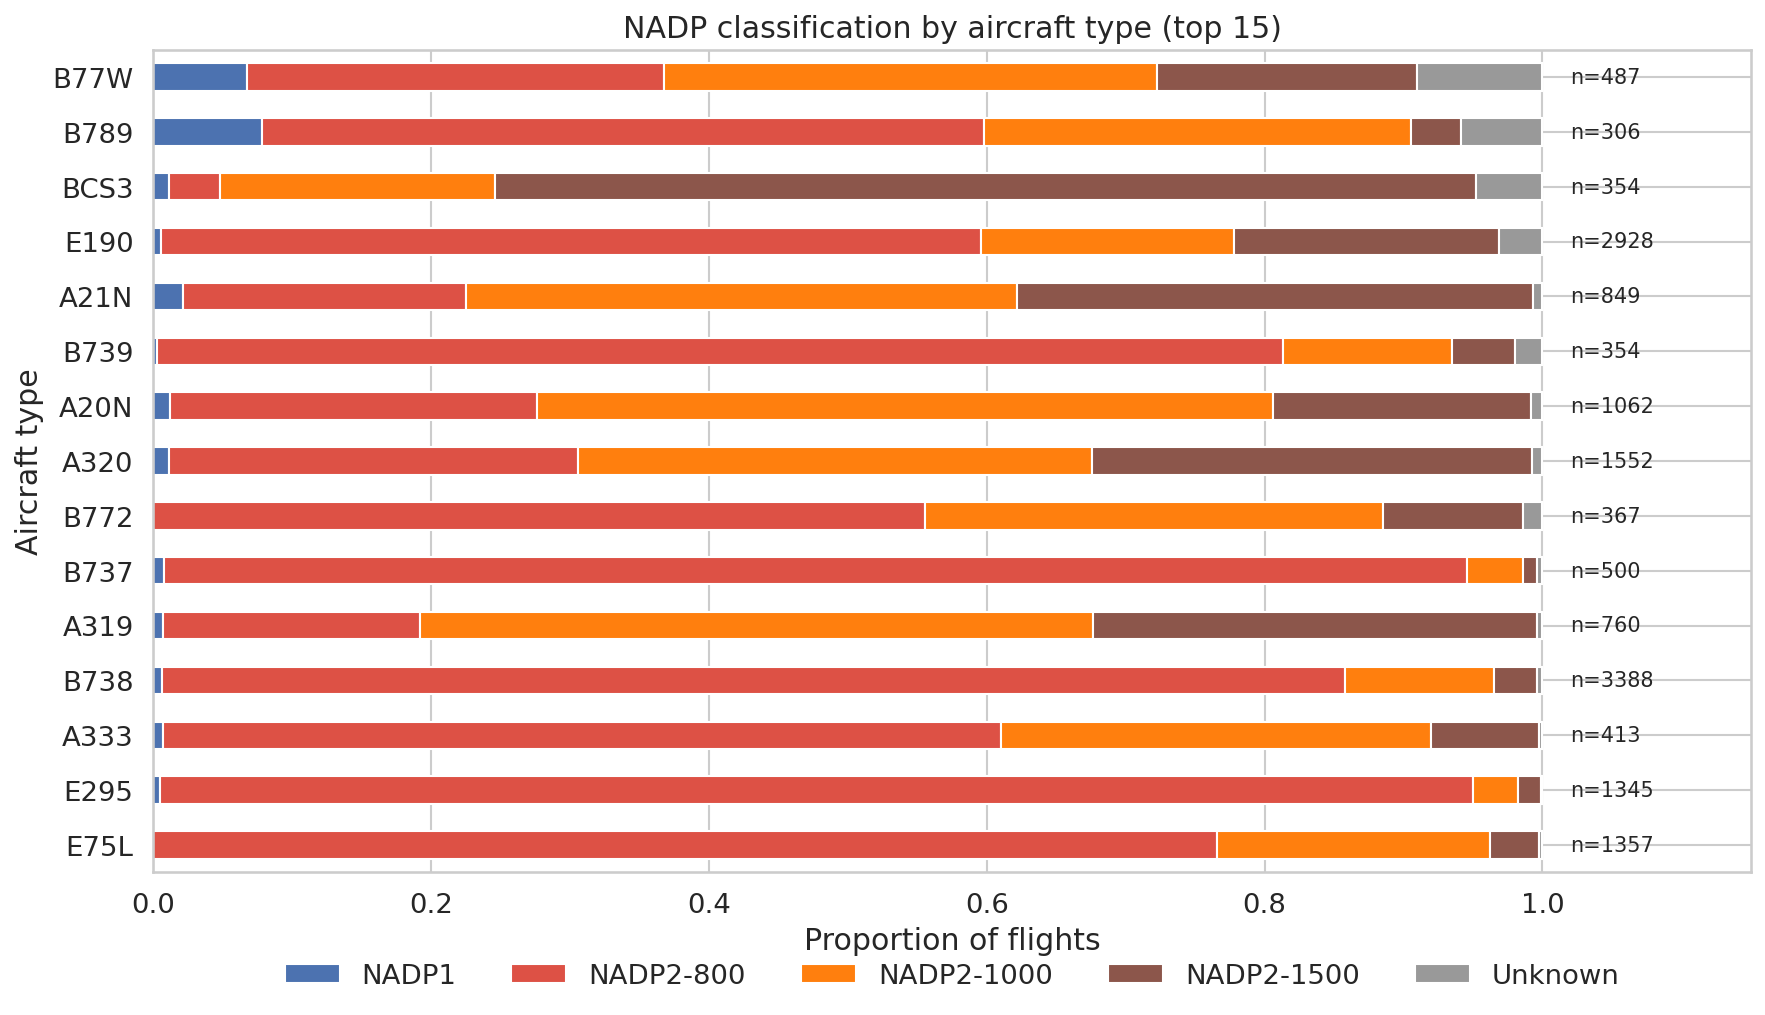
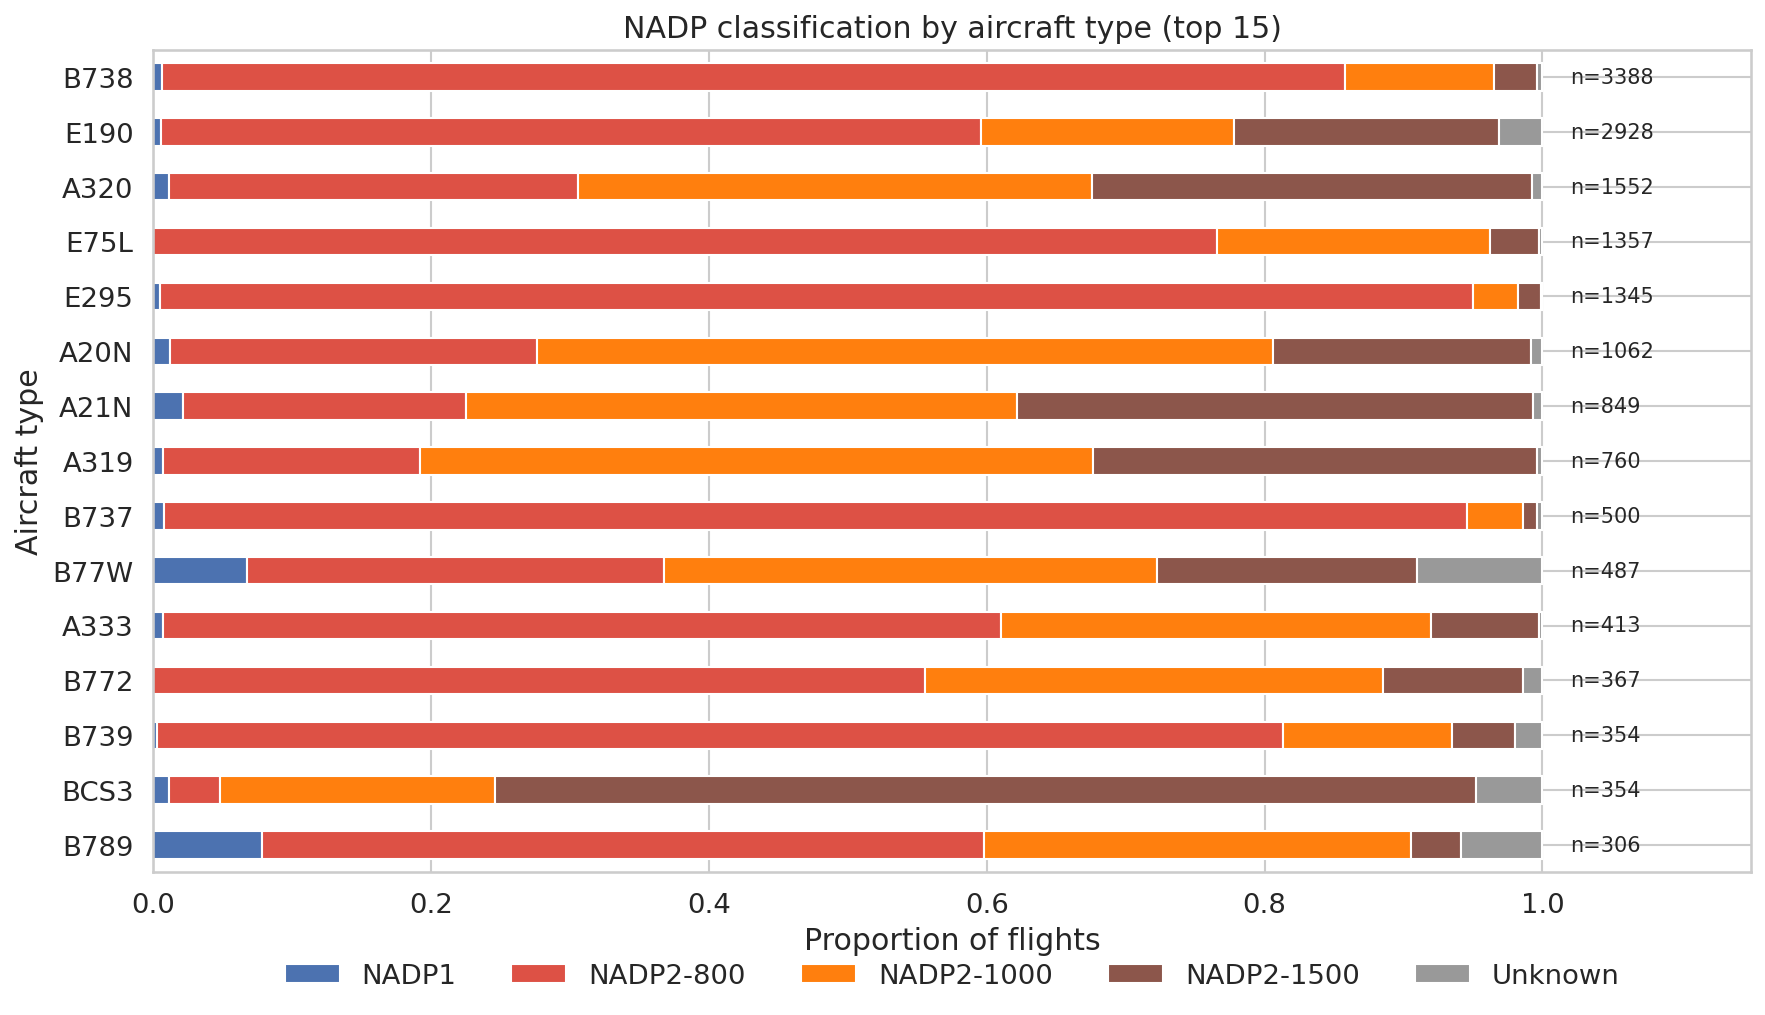
add airline breakdown, callsign/start to CSV, rename icao_actype to typecode
- Extract callsign, airline (ICAO 3-letter), and start timestamp in feature extraction
- Rename icao_actype to typecode across all scripts and CSV output
- Add airline breakdown plots (>2 flights/day) to both 2-profile and 4-profile classifiers
- Sort aircraft type and airline plots by flight count
- Update README with new CSV columns and airline figures

diff --git a/3b_classify_nadp_subtypes.py b/3b_classify_nadp_subtypes.py
@@ -163,7 +163,7 @@ print(f"  Unknown mean:    {unknown['separation_ratio'].mean():.3f}")
 
 # Export results
 result_cols = [
-    "flight_id", "icao_actype", "v2", "nadp_type", "nadp_category",
+    "flight_id", "typecode", "callsign", "airline", "start", "v2", "nadp_type", "nadp_category",
     "delta_score", "delta_ias_rms",
     "delta_ias_800", "delta_ias_1500", "delta_ias_3000",
     "mean_rocd_800_1500", "mean_rocd_1500_3000",
@@ -419,20 +419,17 @@ print(f"Saved {PLOT_DIR}/05_feature_space.png")
 
 
 # Plot 6: NADP type breakdown by aircraft type (top 15 most common)
-top_types = df["icao_actype"].value_counts().head(15).index
-df_top = df[df["icao_actype"].isin(top_types)].copy()
+top_types = df["typecode"].value_counts().head(15).index
+df_top = df[df["typecode"].isin(top_types)].copy()
 
 _type_cols = ["nadp1", "nadp2-800", "nadp2-1000", "nadp2-1500", "unknown"]
 _type_display = ["NADP1", "NADP2-800", "NADP2-1000", "NADP2-1500", "Unknown"]
 _type_colors = [PALETTE["nadp1"], SUBTYPE_PALETTE["nadp2-800"], SUBTYPE_PALETTE["nadp2-1000"],
                 SUBTYPE_PALETTE["nadp2-1500"], PALETTE["unknown"]]
 
-ct = pd.crosstab(df_top["icao_actype"], df_top["nadp_type"], normalize="index")
+ct = pd.crosstab(df_top["typecode"], df_top["nadp_type"], normalize="index")
 ct = ct.reindex(columns=_type_cols, fill_value=0)
-# Sort by total NADP2 proportion
-ct["_nadp2_total"] = ct["nadp2-800"] + ct["nadp2-1000"] + ct["nadp2-1500"]
-ct = ct.loc[ct["_nadp2_total"].sort_values(ascending=False).index]
-ct = ct.drop(columns="_nadp2_total")
+ct = ct.loc[reversed(top_types)]
 
 fig, ax = plt.subplots(figsize=(12, 7))
 ct.plot.barh(stacked=True, color=_type_colors, ax=ax)
@@ -444,7 +441,7 @@ ax.legend(
     loc="upper center", bbox_to_anchor=(0.5, -0.08),
     ncol=5, frameon=False,
 )
-counts_by_type = df_top["icao_actype"].value_counts()
+counts_by_type = df_top["typecode"].value_counts()
 for i, actype in enumerate(ct.index):
     ax.text(1.02, i, f"n={counts_by_type[actype]}", va="center", fontsize=10)
 ax.set_xlim(0, 1.15)
@@ -598,3 +595,32 @@ plt.suptitle("NADP2 sub-type analysis (acceleration altitude variants)")
 plt.tight_layout()
 plt.savefig(f"{PLOT_DIR}/08_nadp2_subtypes.png", dpi=150)
 print(f"Saved {PLOT_DIR}/08_nadp2_subtypes.png")
+
+
+# Plot 9: NADP type breakdown by airline (top 15 most common)
+airline_counts = df["airline"].value_counts()
+n_days = 31  # March 2025
+top_airlines = airline_counts[airline_counts > 2 * n_days].index
+df_top_al = df[df["airline"].isin(top_airlines)].copy()
+
+ct_al = pd.crosstab(df_top_al["airline"], df_top_al["nadp_type"], normalize="index")
+ct_al = ct_al.reindex(columns=_type_cols, fill_value=0)
+ct_al = ct_al.loc[reversed(top_airlines)]
+
+fig, ax = plt.subplots(figsize=(12, 13))
+ct_al.plot.barh(stacked=True, color=_type_colors, ax=ax)
+ax.set_xlabel("Proportion of flights")
+ax.set_ylabel("Airline (ICAO code)")
+ax.set_title(f"NADP classification by airline ({len(top_airlines)} airlines, >2 flights/day)")
+ax.legend(
+    _type_display,
+    loc="upper center", bbox_to_anchor=(0.5, -0.08),
+    ncol=5, frameon=False,
+)
+counts_by_airline = df_top_al["airline"].value_counts()
+for i, airline in enumerate(ct_al.index):
+    ax.text(1.02, i, f"n={counts_by_airline[airline]}", va="center", fontsize=10)
+ax.set_xlim(0, 1.15)
+plt.tight_layout()
+plt.savefig(f"{PLOT_DIR}/09_airline_breakdown.png", dpi=150, bbox_inches="tight")
+print(f"Saved {PLOT_DIR}/09_airline_breakdown.png")

diff --git a/3_classify_nadp.py b/3_classify_nadp.py
@@ -126,7 +126,7 @@ print(f"  Unknown mean:    {unknown['separation_ratio'].mean():.3f}")
 
 # Export results
 result_cols = [
-    "flight_id", "icao_actype", "v2", "nadp_type",
+    "flight_id", "typecode", "callsign", "airline", "start", "v2", "nadp_type",
     "delta_score", "delta_ias_rms",
     "delta_ias_800", "delta_ias_1500", "delta_ias_3000",
     "mean_rocd_800_1500", "mean_rocd_1500_3000",
@@ -356,12 +356,12 @@ print(f"Saved {PLOT_DIR}/05_feature_space.png")
 
 
 # Plot 6: NADP type breakdown by aircraft type (top 15 most common)
-top_types = df["icao_actype"].value_counts().head(15).index
-df_top = df[df["icao_actype"].isin(top_types)].copy()
+top_types = df["typecode"].value_counts().head(15).index
+df_top = df[df["typecode"].isin(top_types)].copy()
 
-ct = pd.crosstab(df_top["icao_actype"], df_top["nadp_type"], normalize="index")
+ct = pd.crosstab(df_top["typecode"], df_top["nadp_type"], normalize="index")
 ct = ct.reindex(columns=["nadp1", "nadp2", "unknown"], fill_value=0)
-ct = ct.loc[ct["nadp2"].sort_values(ascending=False).index]
+ct = ct.loc[reversed(top_types)]
 
 fig, ax = plt.subplots(figsize=(12, 7))
 ct.plot.barh(stacked=True, color=[PALETTE["nadp1"], PALETTE["nadp2"], PALETTE["unknown"]], ax=ax)
@@ -373,7 +373,7 @@ ax.legend(
     loc="upper center", bbox_to_anchor=(0.5, -0.08),
     ncol=3, frameon=False,
 )
-counts_by_type = df_top["icao_actype"].value_counts()
+counts_by_type = df_top["typecode"].value_counts()
 for i, actype in enumerate(ct.index):
     ax.text(1.02, i, f"n={counts_by_type[actype]}", va="center", fontsize=10)
 ax.set_xlim(0, 1.15)
@@ -420,3 +420,32 @@ plt.suptitle("Mean profiles with IQR by NADP type")
 plt.tight_layout()
 plt.savefig(f"{PLOT_DIR}/07_mean_profiles.png", dpi=150)
 print(f"Saved {PLOT_DIR}/07_mean_profiles.png")
+
+
+# Plot 9: NADP type breakdown by airline (airlines with >2 flights/day avg)
+airline_counts = df["airline"].value_counts()
+n_days = 31  # March 2025
+top_airlines = airline_counts[airline_counts > 2 * n_days].index
+df_top_al = df[df["airline"].isin(top_airlines)].copy()
+
+ct_al = pd.crosstab(df_top_al["airline"], df_top_al["nadp_type"], normalize="index")
+ct_al = ct_al.reindex(columns=["nadp1", "nadp2", "unknown"], fill_value=0)
+ct_al = ct_al.loc[reversed(top_airlines)]
+
+fig, ax = plt.subplots(figsize=(12, 13))
+ct_al.plot.barh(stacked=True, color=[PALETTE["nadp1"], PALETTE["nadp2"], PALETTE["unknown"]], ax=ax)
+ax.set_xlabel("Proportion of flights")
+ax.set_ylabel("Airline (ICAO code)")
+ax.set_title(f"NADP classification by airline ({len(top_airlines)} airlines, >2 flights/day)")
+ax.legend(
+    ["NADP1", "NADP2", "Unknown"],
+    loc="upper center", bbox_to_anchor=(0.5, -0.08),
+    ncol=3, frameon=False,
+)
+counts_by_airline = df_top_al["airline"].value_counts()
+for i, airline in enumerate(ct_al.index):
+    ax.text(1.02, i, f"n={counts_by_airline[airline]}", va="center", fontsize=10)
+ax.set_xlim(0, 1.15)
+plt.tight_layout()
+plt.savefig(f"{PLOT_DIR}/09_airline_breakdown.png", dpi=150, bbox_inches="tight")
+print(f"Saved {PLOT_DIR}/09_airline_breakdown.png")

diff --git a/2_extract_features.py b/2_extract_features.py
@@ -104,10 +104,16 @@ def extract_flight_features(flight_id, group):
     delta_ias_curve = [v - v2 if not pd.isna(v) else np.nan for v in ias_curve]
 
     actype = group["ICAO_ACTYPE"].iloc[0]
+    callsign = str(group["CALLSIGN"].iloc[0]).strip()
+    airline = callsign[:3]
+    start = airborne["actual_time"].iloc[0]
 
     return {
         "flight_id": flight_id,
-        "icao_actype": actype,
+        "typecode": actype,
+        "callsign": callsign,
+        "airline": airline,
+        "start": start,
         "v2": v2,
         "delta_ias_800": delta_ias_800,
         "delta_ias_1500": delta_ias_1500,

diff --git a/readme.md b/readme.md
@@ -150,6 +150,12 @@ Wide-bodies (B77W, B789) have more NADP1 departures. Narrowbodies (B738, E295, B
 
 ![NADP by aircraft type](plots/2profiles/06_actype_breakdown.png)
 
+### Airline breakdown
+
+Most airlines at Schiphol overwhelmingly follow NADP2. Air France (AFR) stands out with the highest NADP1 proportion among the top 15 airlines. Low-cost carriers (EZY, EJU, RYR) are almost exclusively NADP2:
+
+![NADP by airline](plots/2profiles/09_airline_breakdown.png)
+
 ### Best and worst matches
 
 Three best and three worst flights per type, compared to the reference profiles for IAS and ROCD:
@@ -190,6 +196,8 @@ Most NADP2 departures match the 800 ft variant, consistent with the standard ICA
 
 ![Aircraft type breakdown with sub-types](plots/4profiles/06_actype_breakdown.png)
 
+![Airline breakdown with sub-types](plots/4profiles/09_airline_breakdown.png)
+
 ## Output
 
 `data/nadp_results.csv`, one row per flight:
@@ -197,9 +205,13 @@ Most NADP2 departures match the 800 ft variant, consistent with the standard ICA
 | Column | Description |
 |--------|-------------|
 | `flight_id` | Unique flight identifier |
-| `icao_actype` | Aircraft type code |
+| `typecode` | Aircraft type code (e.g. B738, A320) |
+| `callsign` | Flight callsign (e.g. KLM1234) |
+| `airline` | ICAO airline code (first 3 characters of callsign) |
+| `start` | Departure timestamp (first airborne point) |
 | `v2` | Extracted V2 proxy (kt) |
-| `nadp_type` | `nadp1`, `nadp2`, or `unknown` (2-profile); `nadp1`, `nadp2-800`, `nadp2-1000`, `nadp2-1500`, or `unknown` (4-profile) |
+| `nadp_type` | `nadp1`, `nadp2-800`, `nadp2-1000`, `nadp2-1500`, or `unknown` |
+| `nadp_category` | High-level category: `nadp1`, `nadp2`, or `unknown` |
 | `delta_score` | Normalized RMS deviation from reference (0 = perfect) |
 | `delta_ias_rms` | Raw IAS RMS deviation (kt) |
 | `delta_ias_800` | IAS minus V2 at 800 ft (kt) |